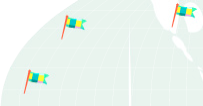
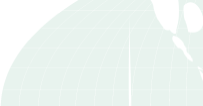
mission control header bar styling

Changed region(s): [[0.2956, 0.1415, 0.4433, 0.3679], [0.1182, 0.6509, 0.266, 0.8774], [0.8276, 0.0283, 0.9754, 0.2547]]

diff --git a/web/static/css/styles.css b/web/static/css/styles.css
@@ -293,18 +293,46 @@ a {
                 font-weight: bold;
             }
 
-/* Mission Progress Bar*/
+/* Map the Future in the header */
 #mission-mapthefuture {
    position: absolute;
    right: 0px;
    bottom: 0px;
+   width: 203px;
+   height: 106px;
+   background: url('../img/bg-mission-mapthefuture.png') no-repeat;
 }
     #mission-mapthefuture a {
-        display: block;
-        width: 203px;
-        height: 106px;
-        background: url('../img/bg-mission-mapthefuture.png') no-repeat;
+        position: absolute;
+        bottom: 50px;
+        right: 25px;
+        display: inline-block;
+        padding: 10px 20px;
+        background: #f7ff59;
+        font-family: "Enriqueta";
+        font-size: 1.2em;
+        -webkit-border-radius: 5px;
+        -moz-border-radius: 5px;
+        border-radius: 5px;
+        color: #2d3542;
     }
+    
+    #mission-mapthefuture-flags-container {
+        position: absolute;
+        bottom: 5px;
+        right: 10px;
+        text-align: right;
+    }
+    
+        .mapthefuture-flag {
+            display: inline-block;
+            margin-right: -13px;
+            width: 28px;
+            height: 28px;
+            background: url('../values/img/flag-individual_28.png');
+        }
+
+/* Mission Progress Bar*/
 
 #mission-progress-container {
    width: 600px;
@@ -315,7 +343,8 @@ a {
 
    #mission-progress-total {
        position: relative;
-       width: 650px;
+       width: 600px;
+       padding-right: 50px;
        height: 40px;
        margin-left: 20px;
        background: #f2f7ed url('../img/bg-mission-progress-ticks.png') repeat-x center center; /* Old browsers */
@@ -329,23 +358,60 @@ a {
    }
 
    #mission-progress-individual {
-       width: 20%;
+       position: relative;
+       min-width: 10%;
+/*       width: 0%; width is decided in the template to drive progress */
        height: 100%;
-       background: #7beed0 url('../img/bg-mission-progress-ticks.png') repeat-x center center;
+       padding-right: 20px;
        font-size: 1.5em;
-       line-height: 50px;
+       line-height: 40px;
+       background: #7beed0 url('../img/bg-mission-progress-ticks.png') repeat-x center center;
        text-align: right;
        color: #fff;
    }
 
+        #mission-progress-individual-marker {
+            position: absolute;
+            right: -8px;
+            top: -10px;
+            width: 16px;
+            height: 25px;
+            background: #ff5036;
+        }
+
+            #mission-progress-individual-marker:before {
+                position: absolute;
+                top: 0px;
+                right: -10px;
+                content: ' ';
+                width: 0px;
+                height: 0px;
+                border: 5px solid transparent;
+                border-bottom: 5px solid #dda51e;
+                border-left: 5px solid #dda51e;
+            }
+            
+            #mission-progress-individual-marker:after {
+                position: absolute;
+                bottom: -16px;
+                left: 0px;
+                content: ' ';
+                width: 0px;
+                height: 0px;
+                border: 8px solid transparent;
+                border-top: 8px solid #ff5036;
+            }
+
    #mission-progress-marker {
        position: absolute;
-       top: -28px;
-       left: 500px;
-       width: 25px;
-       height: 49px;
-       background: url('../img/icon-mission-progress-marker.png') no-repeat;
+       bottom: 20px;
+       left: 620px; /* Should be width of progress-total (100%) + padding-right of individual */
+       width: 64px;
+       height: 64px;
+       background: url('../values/img/flag-individual_64.png') no-repeat;
+       z-index: 1;
    }
+   
    
    
 /* Siebar-Nav */

diff --git a/web/templates_redesign/base_city.html b/web/templates_redesign/base_city.html
@@ -57,7 +57,7 @@
                             <div class="nav-missions-number">{{ forloop.counter }}</div>
                             <div class="nav-missions-endsin">
                                 <p class="nav-missions-endsin-label">Ends in<p>
-                                <p class="nav-missions-endsin-time">4 days</p>
+                                <p class="nav-missions-endsin-time">{# TODO #}# days</p>
                             </div>
                         </a>
                         {% if forloop.last %}<div class="nav-missions-end-arrow"></div>{% endif %}
@@ -67,12 +67,30 @@
                 <div id="mission-progress-container">
                     <div id="mission-progress-total">
                         <div id="mission-progress-marker"></div>
-                        <div id="mission-progress-individual">{{ request.user.get_profile.totalPoints }}</div>
+                        <div id="mission-progress-individual" style="width:20%;"> {# TODO: width decides the progress #}
+                            {{ request.user.get_profile.totalPoints }}
+                            <div id="mission-progress-individual-marker"></div>
+                        </div>
                     </div>
                 </div>
             </div>
             {# MAP THE FUTURE #}
-            <div id="mission-mapthefuture"><a href="{% url values:index %}">Map the Future</a></div>
+            <div id="mission-mapthefuture">
+                <a href="{% url values:index %}">Map the Future</a>
+                <div id="mission-mapthefuture-flags-container">
+                    {# TODO for token in tokens #}
+                    <div class="mapthefuture-flag"></div>
+                    <div class="mapthefuture-flag"></div>
+                    <div class="mapthefuture-flag"></div>
+                    <div class="mapthefuture-flag"></div>
+                    <div class="mapthefuture-flag"></div>
+                    <div class="mapthefuture-flag"></div>
+                    <div class="mapthefuture-flag"></div>
+                    <div class="mapthefuture-flag"></div>
+                    <div class="mapthefuture-flag"></div>
+                    <div class="mapthefuture-flag"></div>
+                </div>
+            </div>
         </div>
     {% else %}    
         {% comment %} CITY PAGE HEADER {% endcomment %}
